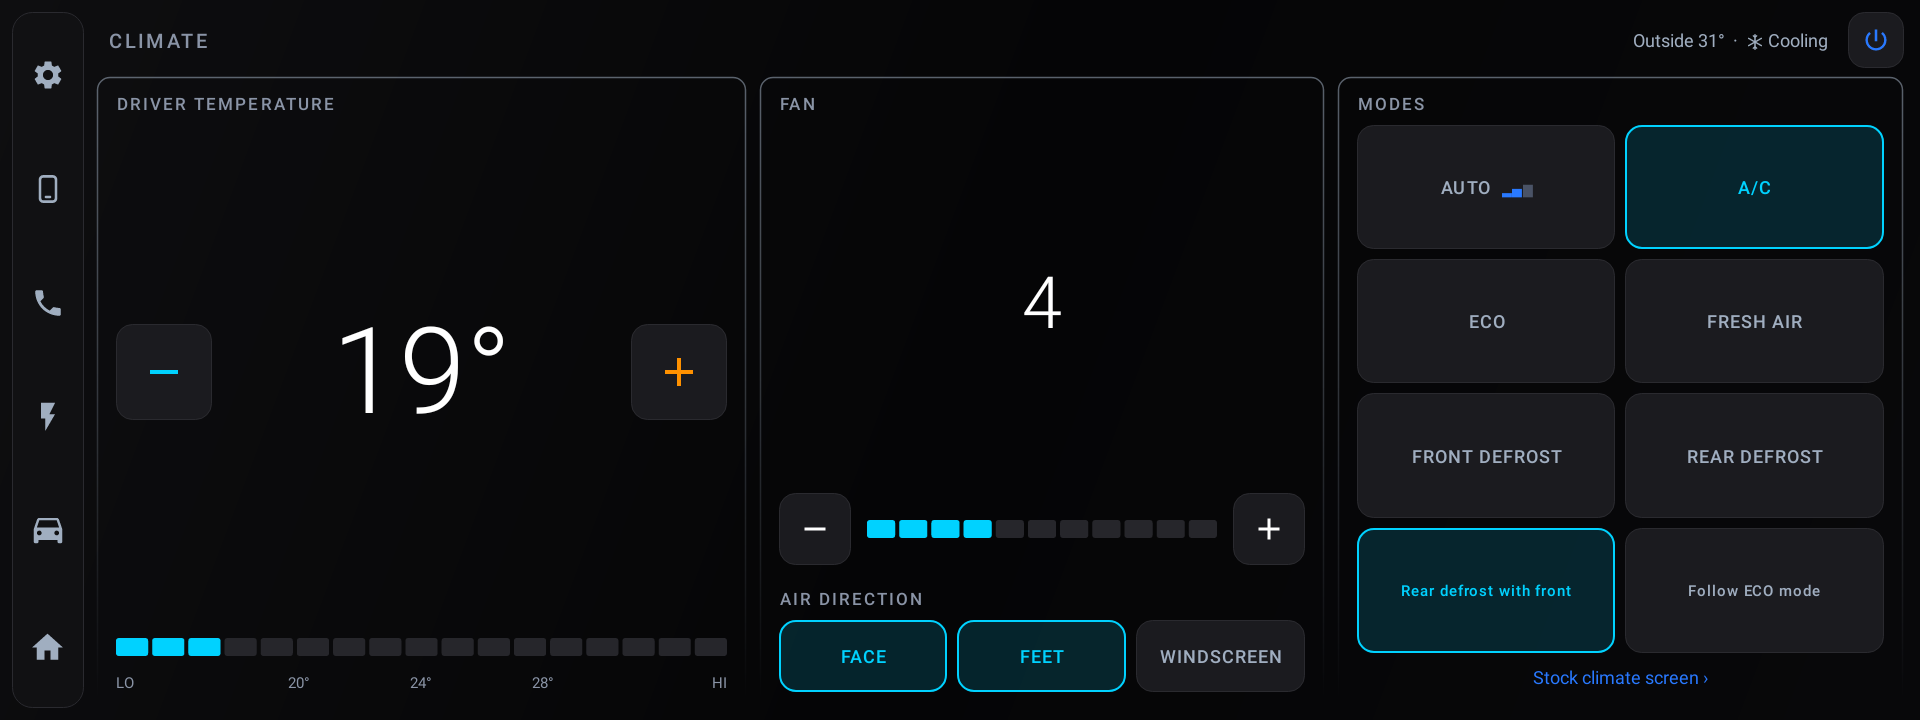
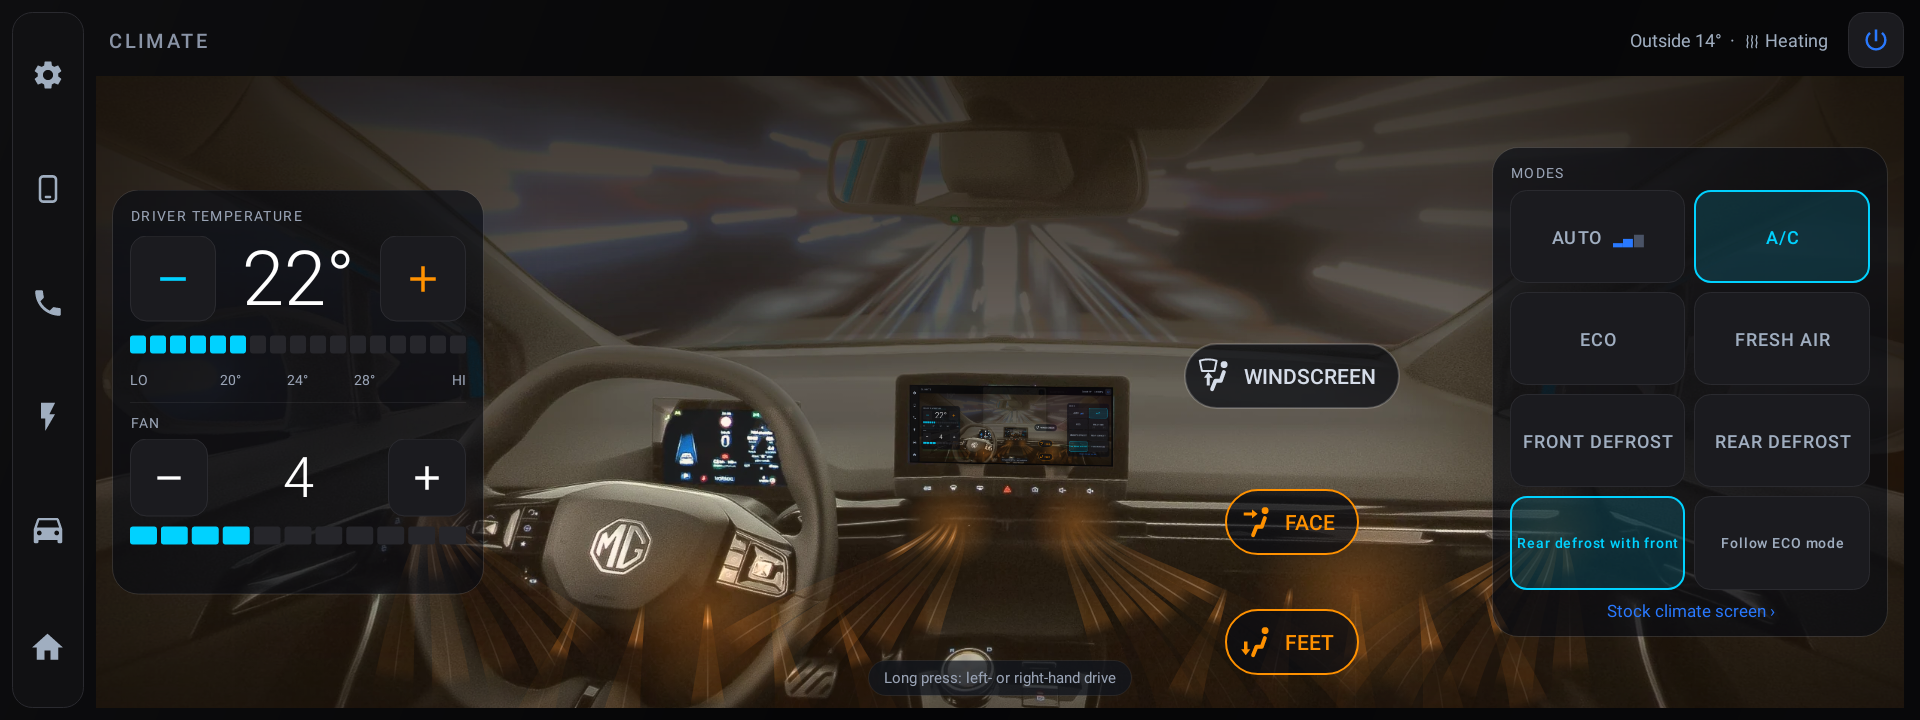
README: the redesigned Vehicle, Energy and Climate pages (pictures from the UI previews workflow, night and day)

diff --git a/README.fr.md b/README.fr.md
@@ -284,7 +284,9 @@ Placez la carte facultative **Paroles** depuis le mode édition de l'accueil. Qu
 
 ![Page Climatisation](docs/screenshots/climate.png)
 
-Température, ventilation, diffusion de l'air combinable, AUTO, A/C, ECO, recyclage, dégivrage avant et arrière. Ouvrez-la depuis la zone de température de la carte clim.
+Le vrai tableau de bord de la voiture, avec l'air qui sort de ses bouches : orange quand ça chauffe, bleu quand ça refroidit, plus rapide quand la ventilation monte. Touchez le pare-brise, le visage ou les pieds pour choisir où va l'air. Les panneaux vitrés portent la température et la ventilation côté conducteur, et AUTO, A/C, ECO, recyclage et dégivrage de l'autre côté. Un appui long sur l'image passe de la conduite à gauche à la conduite à droite. En thème clair, c'est une image de jour. Ouvrez-la depuis la zone de température de la carte clim.
+
+![Page Climatisation, thème clair](docs/screenshots/climate_light.png)
 
 ### Clim maintenue
 
@@ -301,15 +303,17 @@ Un mode camping, pour quand vous êtes absent ou que vous dormez dans la voiture
 
 ![Page Énergie](docs/screenshots/energy.png)
 
-Charge (marche / arrêt, limite de charge là où la voiture l'applique, courant, temps restant, verrou du câble), charge programmée, V2L, chauffage de la batterie, et consommation par période avec la part de la conduite, de la clim, du chauffage de la batterie et des accessoires.
+Une voiture transparente avec sa batterie à sa vraie place, qui se remplit avec la charge. Le réchauffage de la batterie est posé juste au-dessus, la prise et le câble s'allument quand c'est branché. Autour : charge (marche / arrêt, limite de charge là où la voiture l'applique, courant, temps restant, verrou du câble), charge programmée, V2L (avec ce qui reste avant l'arrêt automatique), et consommation par période avec la part de la conduite, de la clim, du chauffage de la batterie et des accessoires.
 
-La section **batterie** estime la santé de la batterie : en roulant, MG4Dash mesure l'énergie prise à la batterie par rapport à la baisse du %, et à partir de 15 % de baisse donne une mesure datée de la capacité utile. Sa fenêtre (touchez la section batterie) règle le modèle de batterie et votre propre capacité neuve. C'est une estimation, pas une mesure officielle.
+La ligne **batterie** sous la voiture estime la santé de la batterie : en roulant, MG4Dash mesure l'énergie prise à la batterie par rapport à la baisse du %, et à partir de 15 % de baisse donne une mesure datée de la capacité utile. Sa fenêtre (touchez cette ligne) règle le modèle de batterie et votre propre capacité neuve. C'est une estimation, pas une mesure officielle.
 
 ### Véhicule
 
 ![Page Véhicule](docs/screenshots/vehicle.png)
 
-Mode de conduite (Eco, Neige et Custom selon les voitures), régénération (le niveau 6 est la conduite à une pédale), aides à la conduite, pression et température des pneus, état de la voiture, et les applis en cours de l'autoradio (touchez la section autoradio) : processeur et mémoire de chaque appli, rafraîchis toutes les 3 s.
+Votre voiture au centre, à vos couleurs : touchez-la pour l'autre vue (trois-quarts ou profil), appui long pour **Couleurs et style** (version, jantes, toit noir, couleurs MG et fun, livrées). Pression et température des pneus sous les roues, avec un anneau rouge sur un pneu à vérifier. À gauche, mode de conduite, direction et pédale de frein (mode Perso), récupération et conduite à une pédale, économie d'énergie, maintien de voie et freinage d'urgence, chacun se change d'un toucher. À droite, autonomie, trajets du jour, état de la voiture et applis en cours de l'autoradio (touchez la section autoradio).
+
+![Page Véhicule, thème clair](docs/screenshots/vehicle_light.png)
 
 ### Son
 

diff --git a/README.md b/README.md
@@ -284,7 +284,9 @@ Place the optional **Lyrics** card from the home screen's edit mode. When a song
 
 ![Climate page](docs/screenshots/climate.png)
 
-Temperature, fan, combinable air directions, AUTO, A/C, ECO, recirculation, front and rear defrost. Open it from the temperature area of the climate card.
+The car's real dashboard, with the air flowing from its vents: orange when it heats, blue when it cools, faster as the fan goes up. Touch the windscreen, face or feet to choose where the air goes. The glass panels hold the temperature and fan on the driver's side, and AUTO, A/C, ECO, recirculation and defrost on the other. A long press on the picture switches between left- and right-hand drive. In the light theme it is a day picture. Open it from the temperature area of the climate card.
+
+![Climate page, light theme](docs/screenshots/climate_light.png)
 
 ### Keep climate on
 
@@ -301,15 +303,17 @@ A camp mode for when you are away or sleeping in the car: long press the climate
 
 ![Energy page](docs/screenshots/energy.png)
 
-Charging (start / stop, charge limit where the car applies it, current, time left, cable lock), scheduled charging, V2L, battery heating, and consumption by period with the share of driving, climate, battery heating and accessories.
+A see-through car with its battery at its real place, filling with the charge. Battery heating sits right above it, and the charge port and cable light up when plugged in. Around it: charging (start / stop, charge limit where the car applies it, current, time left, cable lock), scheduled charging, V2L (with what is left before the automatic stop), and consumption by period with the share of driving, climate, battery heating and accessories.
 
-The **battery** section estimates the battery's health: while driving, MG4Dash measures the energy taken from the battery against the drop in %, and from a 15 % drop gives a dated measurement of the usable capacity. Its window (tap the battery section) sets the battery model and your own capacity when new. This is an estimate, not an official measurement.
+The **battery** line under the car estimates the battery's health: while driving, MG4Dash measures the energy taken from the battery against the drop in %, and from a 15 % drop gives a dated measurement of the usable capacity. Its window (tap that line) sets the battery model and your own capacity when new. This is an estimate, not an official measurement.
 
 ### Vehicle
 
 ![Vehicle page](docs/screenshots/vehicle.png)
 
-Drive mode (Eco, Snow and Custom where available), regeneration (level 6 is one-pedal driving), driver assistance, tyre pressures and temperatures, the car's state, and the running apps of the head unit (tap the head unit section): each app's processor and memory use, refreshed every 3 s.
+Your car in the centre, in your colours: touch it for the other view (three-quarter or profile), long press it for **Colours and style** (version, wheels, black roof, MG and fun colours, liveries). Tyre pressures and temperatures hang under the wheels, with a red ring on a tyre to check. On the left, drive mode, steering and brake pedal (Custom mode), regeneration and one-pedal driving, energy saving, lane keeping and emergency braking, each changed with a touch. On the right, range, today's trips, the car's state, and the running apps of the head unit (tap the head unit section).
+
+![Vehicle page, light theme](docs/screenshots/vehicle_light.png)
 
 ### Sound
 
